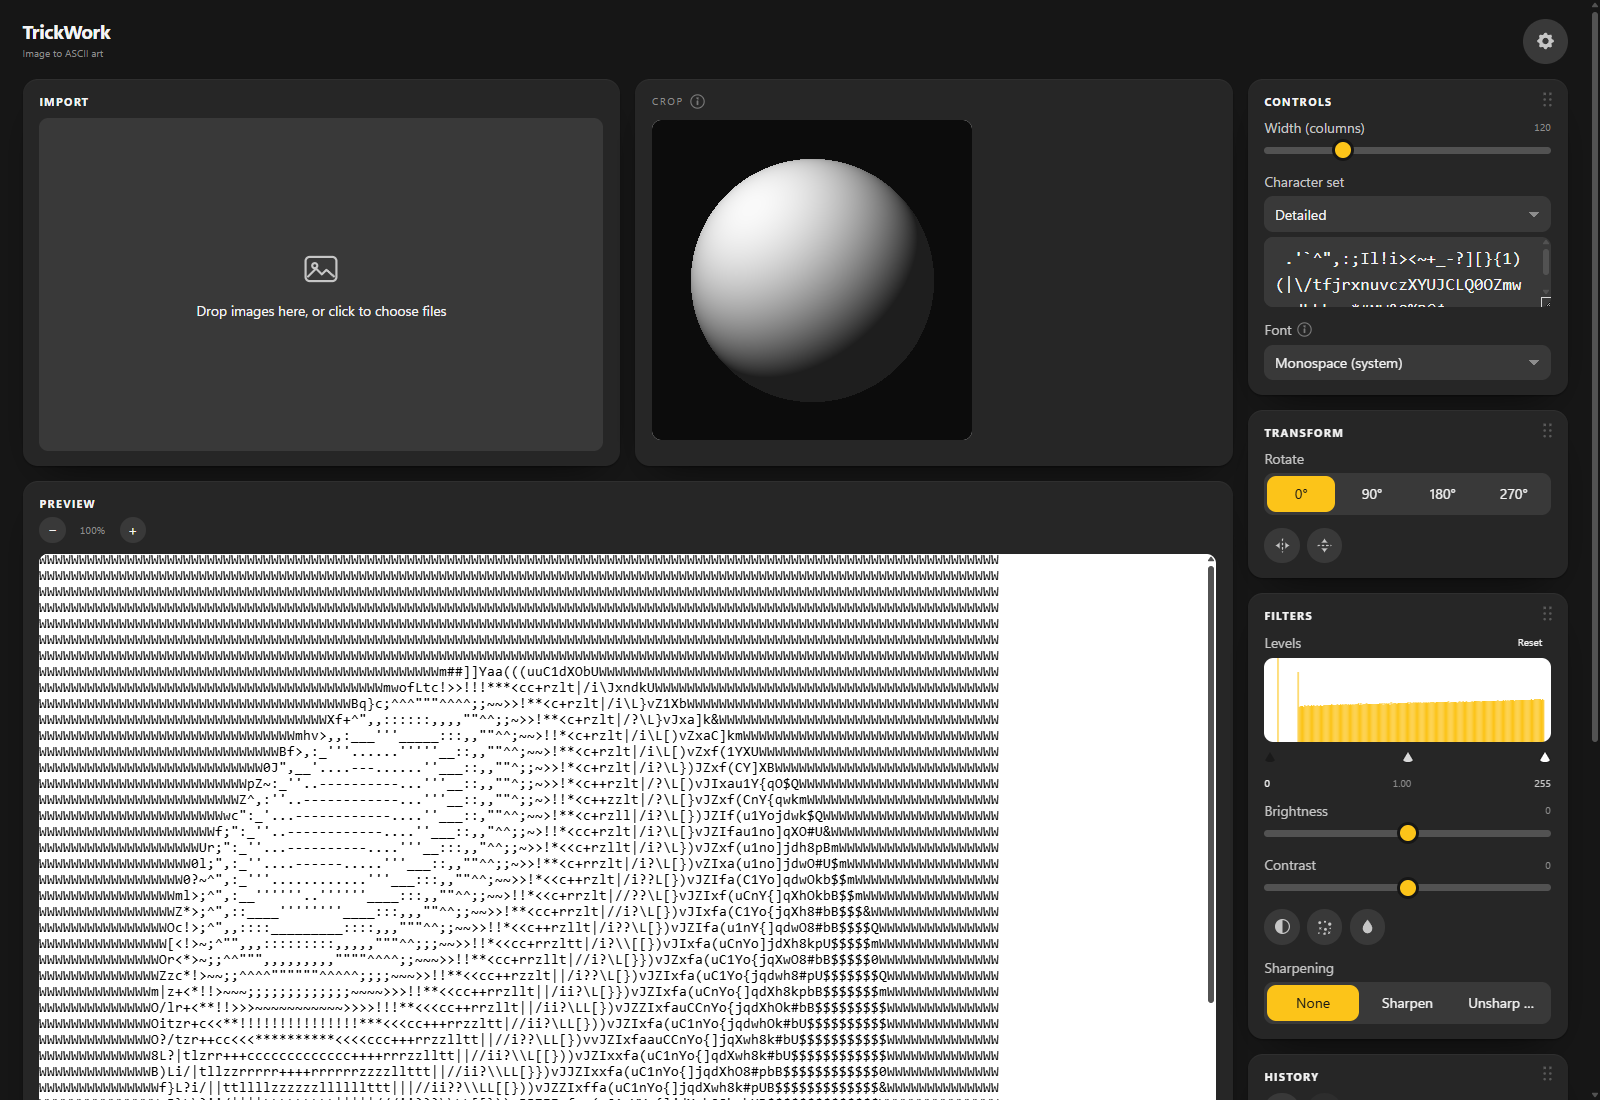
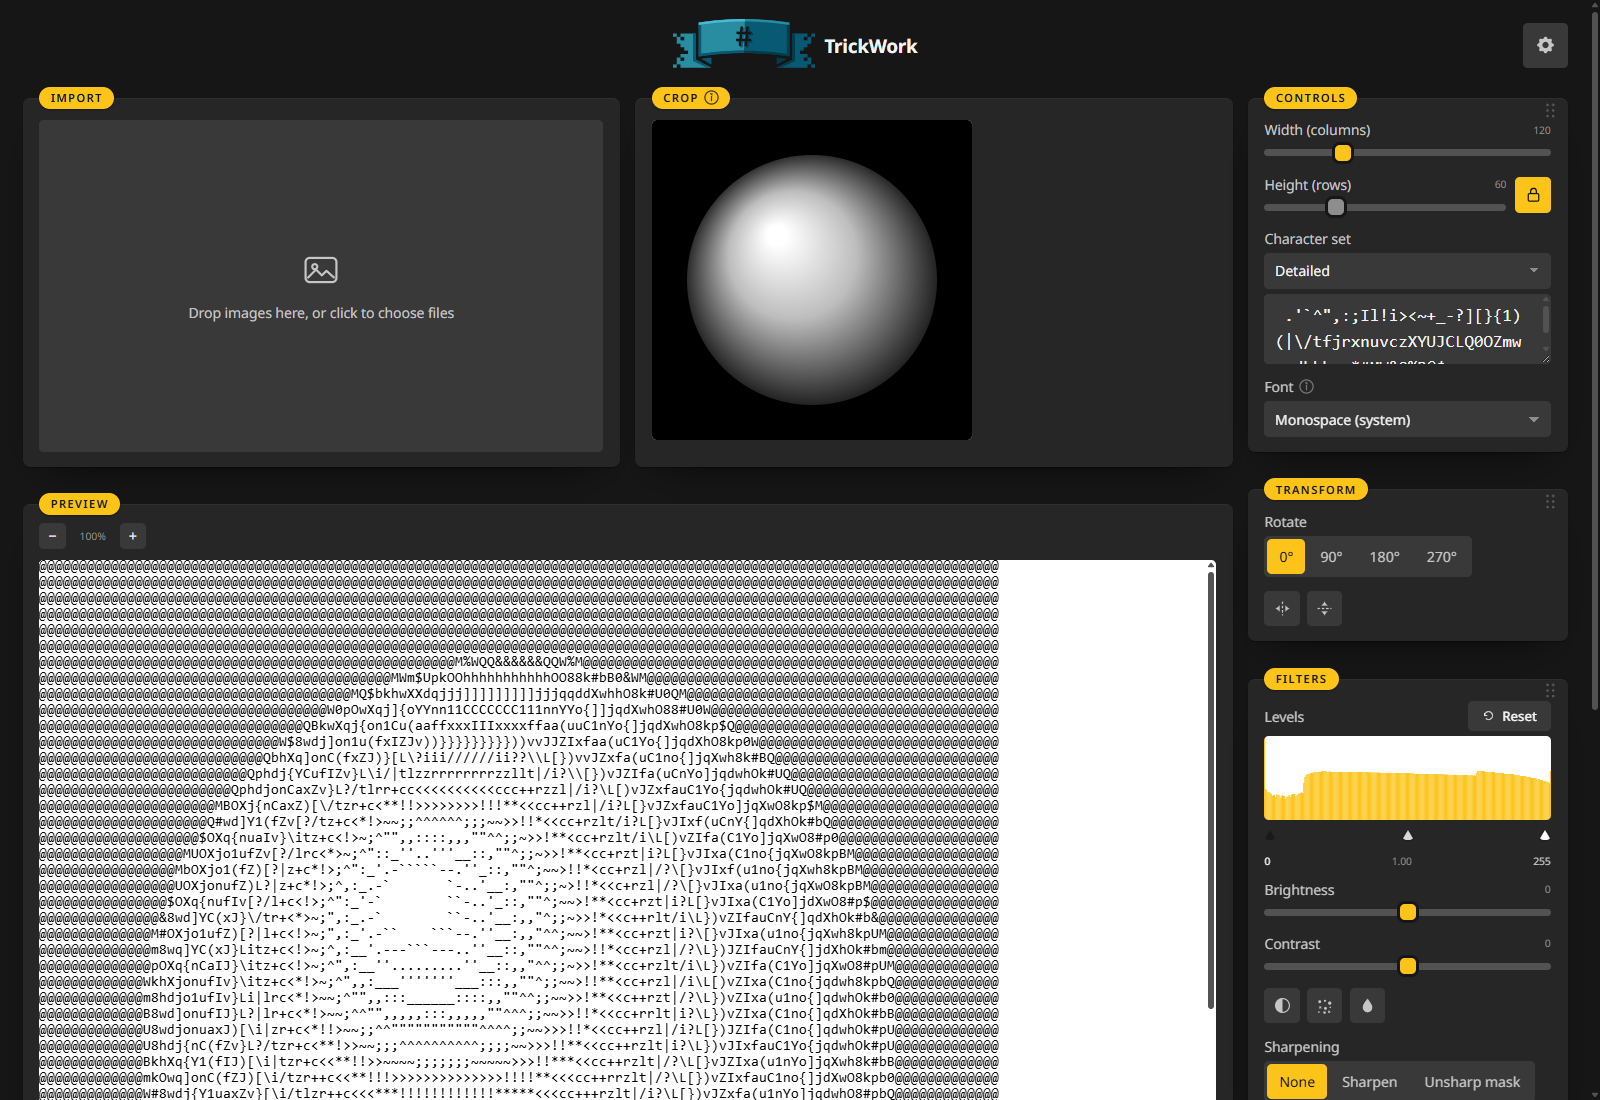
Keep the drag handle above a card's first row and refresh the screenshots

diff --git a/ui/src/style.css b/ui/src/style.css
@@ -240,10 +240,10 @@ html, body {
    like the info icon it is a bare glyph that only opacity lifts. */
 .card-drag-handle {
   position: absolute;
-  top: 0.6rem;
-  right: 0.6rem;
-  width: 1.5rem;
-  height: 1.5rem;
+  top: 0.2rem;
+  right: 0.5rem;
+  width: 1.25rem;
+  height: 1.25rem;
   padding: 0;
   display: inline-flex;
   align-items: center;
